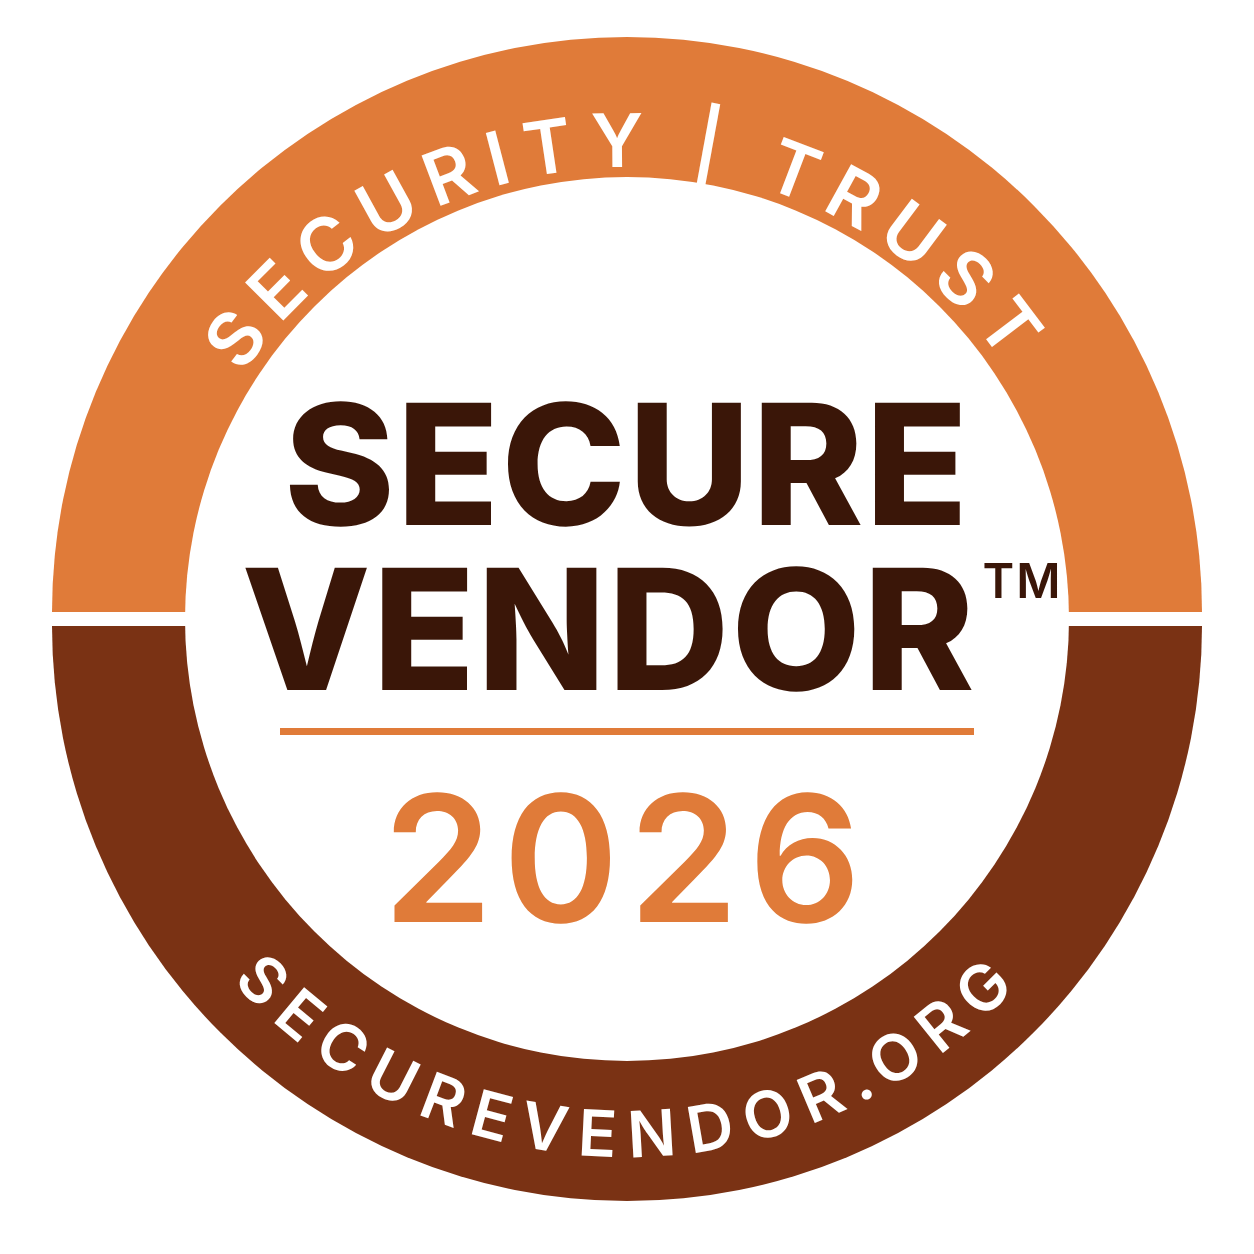
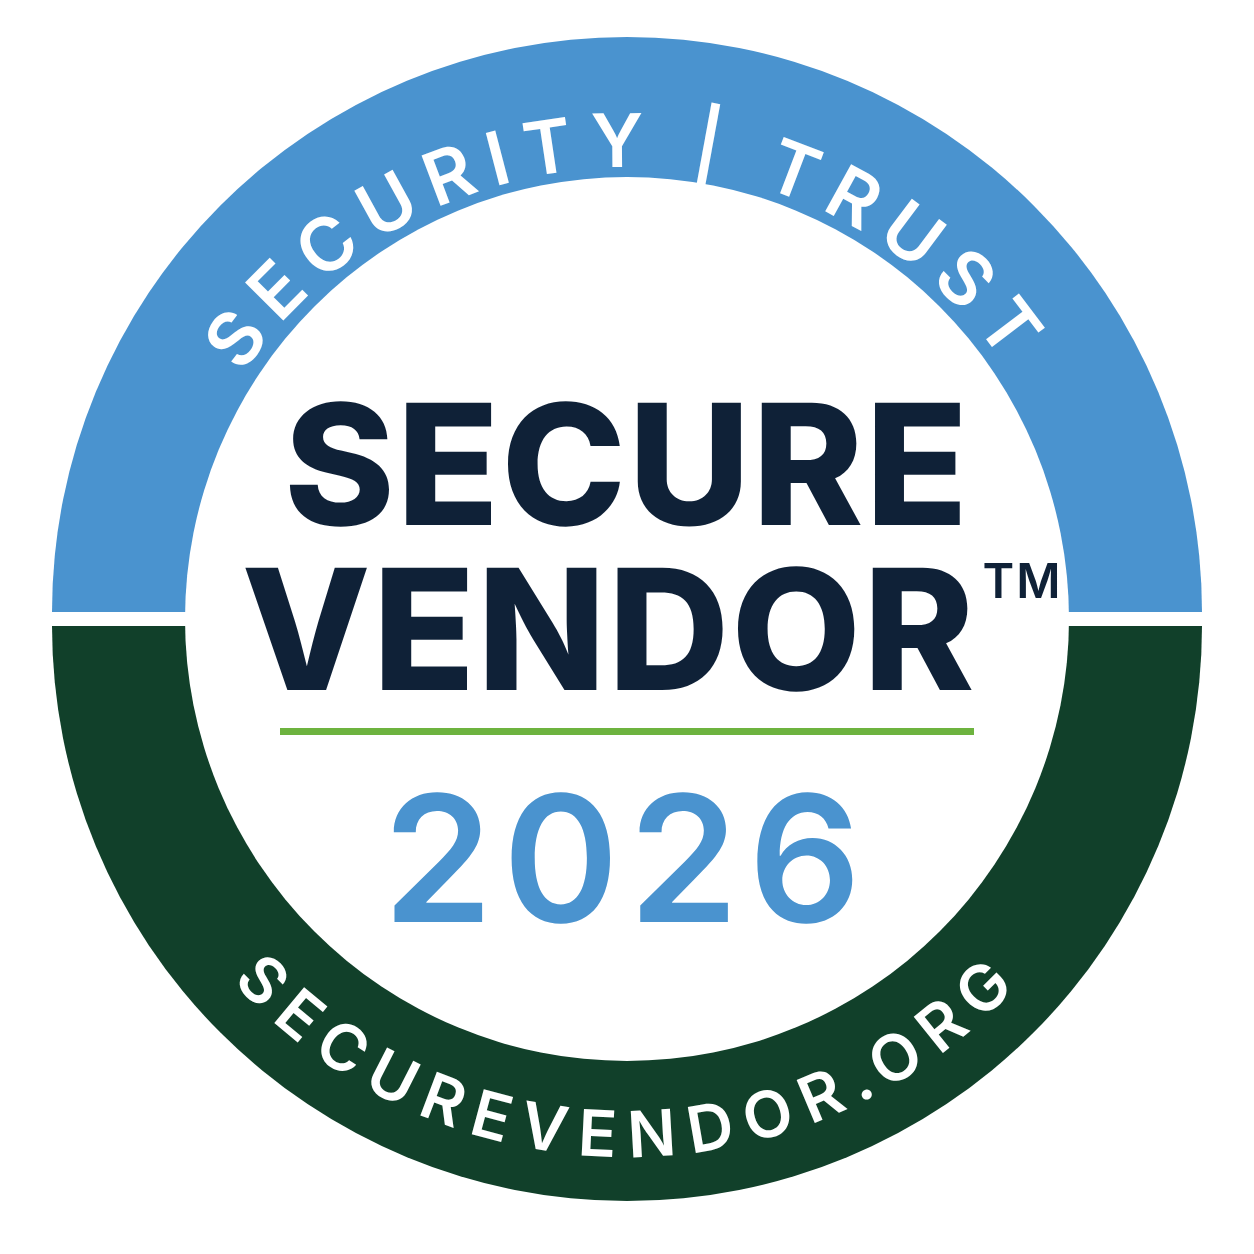
Blue and green theme combining Secure Funder and Secure Broker colors
Claude-Session: https://claude.ai/code/session_01G6gvxkUtkH3PQ2kPFbRBNR

diff --git a/site.css b/site.css
@@ -1,13 +1,13 @@
 /* Secure Vendor — shared site styles.
-   Same layout system as securefunder.org / securebroker.org, with a burnt orange palette. */
+   Same layout system as securefunder.org / securebroker.org, with Secure Funder's blue and Secure Broker's green. */
 :root {
-  /* Burnt orange, with the family's lime banner */
-  --orange: #B9471A; --orange-deep: #973913; --orange-dark: #7A3214; --orange-darkest: #4E200C; --lime: #DDF734;
+  /* Funder blue + Broker green, with the family's lime banner */
+  --blue: #1D4E89; --blue-deep: #163C6A; --navy: #0F2137; --green: #11352A; --lime: #DDF734;
 
-  --ink: #1F1611; --text: #46382F; --muted: #7A6A5D; --rule: #EEDFD5; --band: #FBF5F0; --paper: #FFFFFF;
-  --link: #1A6DD9; --accent: var(--orange); --accent-deep: var(--orange-deep); --dark: var(--orange-dark);
+  --ink: #0E1B2E; --text: #3A4659; --muted: #6B7686; --rule: #D9DEE5; --band: #F4F6F9; --paper: #FFFFFF;
+  --link: #1A6DD9; --accent: var(--blue); --accent-deep: var(--blue-deep); --dark: var(--green);
   --highlight: var(--lime); --tag: #FFE45C;
-  --foot-text: #E3CDBF; --foot-head: #C2A592; --foot-link: #F7EAE1;
+  --foot-text: #A9B4C2; --foot-head: #8C98A8; --foot-link: #DCE3EB;
   --serif: 'Source Serif 4', Georgia, 'Times New Roman', serif;
   --sans: 'Public Sans', 'Helvetica Neue', Arial, sans-serif;
   --wrap: 1160px;
@@ -75,7 +75,7 @@ a.client-slot:hover img { filter: none; opacity: 1; }
 
 /* Sections */
 .section { padding: 88px 0; border-bottom: 1px solid var(--rule); }
-.section.dark { background: var(--dark); color: #F3E3D8; border-bottom: 0; }
+.section.dark { background: var(--green); color: #C9D2DE; border-bottom: 0; }
 .section.dark h2, .section.dark strong { color: #fff; }
 .section.band { background: var(--band); }
 .section > .wrap { display: grid; grid-template-columns: minmax(0, 4fr) minmax(0, 8fr); gap: 64px; }
@@ -111,7 +111,7 @@ a.client-slot:hover img { filter: none; opacity: 1; }
 /* Compare (not a checklist) */
 .contrast { display: grid; grid-template-columns: repeat(2, minmax(0, 1fr)); gap: 16px; }
 .contrast > div { border: 1px solid var(--rule); padding: 22px 22px 24px; }
-.contrast .is { border-color: var(--orange); border-width: 2px; background: var(--paper); }
+.contrast .is { border-color: var(--blue); border-width: 2px; background: var(--paper); }
 .contrast h3 { font-family: var(--sans); font-size: 12px; font-weight: 700; letter-spacing: .1em; text-transform: uppercase; color: var(--muted); margin: 0 0 12px; }
 .contrast .is h3 { color: var(--accent); }
 .contrast ul { list-style: none; margin: 0; padding: 0; }
@@ -133,12 +133,12 @@ a.client-slot:hover img { filter: none; opacity: 1; }
 .linkbtn:hover { text-decoration: underline; text-underline-offset: 3px; }
 
 /* Closing band */
-.closing { padding: 96px 0; background: var(--dark); color: #F3E3D8; }
+.closing { padding: 96px 0; background: var(--navy); color: #C9D2DE; }
 .closing .wrap { display: flex; align-items: flex-end; justify-content: space-between; gap: 40px; flex-wrap: wrap; }
 .closing h2 { color: #fff; font-size: clamp(32px, 4vw, 44px); line-height: 1.1; max-width: 16em; }
 .closing p { margin: 14px 0 0; font-size: 16px; }
 .closing .btn { background: #fff; border-color: #fff; color: var(--ink); }
-.closing .btn:hover { background: #F7EAE1; border-color: #F7EAE1; color: var(--ink); }
+.closing .btn:hover { background: #E6EAF0; border-color: #E6EAF0; color: var(--ink); }
 .closing .btn-quiet { background: transparent; color: #fff; border-color: #fff; }
 .closing .btn-quiet:hover { background: #fff; color: var(--ink); }
 .closing-actions { display: flex; gap: 12px; flex-wrap: wrap; }
@@ -195,7 +195,7 @@ a.client-slot:hover img { filter: none; opacity: 1; }
 .notice { font-size: 14px; color: var(--muted); margin: 16px 0 0; }
 
 /* Footer */
-.site-foot { padding: 56px 0 48px; font-size: 14px; color: var(--foot-text); background: var(--orange-darkest); }
+.site-foot { padding: 56px 0 48px; font-size: 14px; color: var(--foot-text); background: var(--green); }
 .site-foot .fob { --fob-rule: rgba(255,255,255,0.15); margin: 0 0 48px; }
 .site-foot .fob-title { margin: 0 0 6px; font-family: inherit; font-size: 17px; font-weight: 700; color: #fff; }
 .site-foot .fob-sub { margin: 0; max-width: none; font-size: 14px; color: var(--foot-text); }
@@ -218,7 +218,7 @@ a.client-slot:hover img { filter: none; opacity: 1; }
 .site-foot .foot-bottom { margin-top: 44px; padding-top: 20px; border-top: 1px solid rgba(255,255,255,.15); display: flex; justify-content: space-between; gap: 24px; flex-wrap: wrap; }
 
 /* Bio modal */
-.bio-overlay { position: fixed; inset: 0; z-index: 100; background: rgba(31,22,17,.5); display: none; align-items: center; justify-content: center; padding: 24px; }
+.bio-overlay { position: fixed; inset: 0; z-index: 100; background: rgba(14,27,46,.45); display: none; align-items: center; justify-content: center; padding: 24px; }
 .bio-overlay.active { display: flex; }
 .bio-box { position: relative; background: #fff; max-width: 620px; width: 100%; padding: 44px 40px 36px; border: 1px solid var(--rule); max-height: 90vh; overflow: auto; }
 .bio-box h3 { font-size: 24px; margin-bottom: 18px; }

diff --git a/program-guidelines/index.html b/program-guidelines/index.html
@@ -10,8 +10,8 @@
 <meta property="og:type" content="website">
 <meta property="og:url" content="https://securevendor.org/program-guidelines/">
 <meta property="og:image" content="https://securevendor.org/og-blank.png">
-<link rel="icon" type="image/png" sizes="32x32" href="../orange-rings.png">
-<link rel="apple-touch-icon" sizes="180x180" href="../orange-rings.png">
+<link rel="icon" type="image/png" sizes="32x32" href="../vendor-rings.png">
+<link rel="apple-touch-icon" sizes="180x180" href="../vendor-rings.png">
 <link rel="preconnect" href="https://fonts.googleapis.com">
 <link rel="preconnect" href="https://fonts.gstatic.com" crossorigin>
 <link href="https://fonts.googleapis.com/css2?family=Public+Sans:wght@400;500;600;700&family=Source+Serif+4:opsz,wght@8..60,400;8..60,500;8..60,600;8..60,700&display=swap" rel="stylesheet">
@@ -23,7 +23,7 @@
 
 <header class="nav">
   <div class="wrap">
-    <a class="nav-logo" href="../" aria-label="Secure Vendor home"><img src="../orange-rings.png" alt=""><span>Secure Vendor<sup>&trade;</sup></span></a>
+    <a class="nav-logo" href="../" aria-label="Secure Vendor home"><img src="../vendor-rings.png" alt=""><span>Secure Vendor<sup>&trade;</sup></span></a>
     <nav class="nav-links" aria-label="Primary">
       <a href="https://securebroker.org" target="_blank" rel="noopener noreferrer">For Brokers</a>
       <a href="https://securefunder.org" target="_blank" rel="noopener noreferrer">For Funders</a>

diff --git a/directory/index.html b/directory/index.html
@@ -10,8 +10,8 @@
 <meta property="og:type" content="website">
 <meta property="og:url" content="https://securevendor.org/directory/">
 <meta property="og:image" content="https://securevendor.org/og-blank.png">
-<link rel="icon" type="image/png" sizes="32x32" href="../orange-rings.png">
-<link rel="apple-touch-icon" sizes="180x180" href="../orange-rings.png">
+<link rel="icon" type="image/png" sizes="32x32" href="../vendor-rings.png">
+<link rel="apple-touch-icon" sizes="180x180" href="../vendor-rings.png">
 <link rel="preconnect" href="https://fonts.googleapis.com">
 <link rel="preconnect" href="https://fonts.gstatic.com" crossorigin>
 <link href="https://fonts.googleapis.com/css2?family=Public+Sans:wght@400;500;600;700&family=Source+Serif+4:opsz,wght@8..60,400;8..60,500;8..60,600;8..60,700&display=swap" rel="stylesheet">
@@ -23,7 +23,7 @@
 
 <header class="nav">
   <div class="wrap">
-    <a class="nav-logo" href="../" aria-label="Secure Vendor home"><img src="../orange-rings.png" alt=""><span>Secure Vendor<sup>&trade;</sup></span></a>
+    <a class="nav-logo" href="../" aria-label="Secure Vendor home"><img src="../vendor-rings.png" alt=""><span>Secure Vendor<sup>&trade;</sup></span></a>
     <nav class="nav-links" aria-label="Primary">
       <a href="https://securebroker.org" target="_blank" rel="noopener noreferrer">For Brokers</a>
       <a href="https://securefunder.org" target="_blank" rel="noopener noreferrer">For Funders</a>

diff --git a/contact/index.html b/contact/index.html
@@ -10,8 +10,8 @@
 <meta property="og:type" content="website">
 <meta property="og:url" content="https://securevendor.org/contact/">
 <meta property="og:image" content="https://securevendor.org/og-blank.png">
-<link rel="icon" type="image/png" sizes="32x32" href="../orange-rings.png">
-<link rel="apple-touch-icon" sizes="180x180" href="../orange-rings.png">
+<link rel="icon" type="image/png" sizes="32x32" href="../vendor-rings.png">
+<link rel="apple-touch-icon" sizes="180x180" href="../vendor-rings.png">
 <link rel="preconnect" href="https://fonts.googleapis.com">
 <link rel="preconnect" href="https://fonts.gstatic.com" crossorigin>
 <link href="https://fonts.googleapis.com/css2?family=Public+Sans:wght@400;500;600;700&family=Source+Serif+4:opsz,wght@8..60,400;8..60,500;8..60,600;8..60,700&display=swap" rel="stylesheet">
@@ -23,7 +23,7 @@
 
 <header class="nav">
   <div class="wrap">
-    <a class="nav-logo" href="../" aria-label="Secure Vendor home"><img src="../orange-rings.png" alt=""><span>Secure Vendor<sup>&trade;</sup></span></a>
+    <a class="nav-logo" href="../" aria-label="Secure Vendor home"><img src="../vendor-rings.png" alt=""><span>Secure Vendor<sup>&trade;</sup></span></a>
     <nav class="nav-links" aria-label="Primary">
       <a href="https://securebroker.org" target="_blank" rel="noopener noreferrer">For Brokers</a>
       <a href="https://securefunder.org" target="_blank" rel="noopener noreferrer">For Funders</a>

diff --git a/join/index.html b/join/index.html
@@ -10,8 +10,8 @@
 <meta property="og:type" content="website">
 <meta property="og:url" content="https://securevendor.org/join/">
 <meta property="og:image" content="https://securevendor.org/og-blank.png">
-<link rel="icon" type="image/png" sizes="32x32" href="../orange-rings.png">
-<link rel="apple-touch-icon" sizes="180x180" href="../orange-rings.png">
+<link rel="icon" type="image/png" sizes="32x32" href="../vendor-rings.png">
+<link rel="apple-touch-icon" sizes="180x180" href="../vendor-rings.png">
 <link rel="preconnect" href="https://fonts.googleapis.com">
 <link rel="preconnect" href="https://fonts.gstatic.com" crossorigin>
 <link href="https://fonts.googleapis.com/css2?family=Public+Sans:wght@400;500;600;700&family=Source+Serif+4:opsz,wght@8..60,400;8..60,500;8..60,600;8..60,700&display=swap" rel="stylesheet">
@@ -23,7 +23,7 @@
 
 <header class="nav">
   <div class="wrap">
-    <a class="nav-logo" href="../" aria-label="Secure Vendor home"><img src="../orange-rings.png" alt=""><span>Secure Vendor<sup>&trade;</sup></span></a>
+    <a class="nav-logo" href="../" aria-label="Secure Vendor home"><img src="../vendor-rings.png" alt=""><span>Secure Vendor<sup>&trade;</sup></span></a>
     <nav class="nav-links" aria-label="Primary">
       <a href="https://securebroker.org" target="_blank" rel="noopener noreferrer">For Brokers</a>
       <a href="https://securefunder.org" target="_blank" rel="noopener noreferrer">For Funders</a>

diff --git a/index.html b/index.html
@@ -10,8 +10,8 @@
 <meta property="og:type" content="website">
 <meta property="og:url" content="https://securevendor.org/">
 <meta property="og:image" content="https://securevendor.org/og-blank.png">
-<link rel="icon" type="image/png" sizes="32x32" href="orange-rings.png">
-<link rel="apple-touch-icon" sizes="180x180" href="orange-rings.png">
+<link rel="icon" type="image/png" sizes="32x32" href="vendor-rings.png">
+<link rel="apple-touch-icon" sizes="180x180" href="vendor-rings.png">
 <link rel="preconnect" href="https://fonts.googleapis.com">
 <link rel="preconnect" href="https://fonts.gstatic.com" crossorigin>
 <link href="https://fonts.googleapis.com/css2?family=Public+Sans:wght@400;500;600;700&family=Source+Serif+4:opsz,wght@8..60,400;8..60,500;8..60,600;8..60,700&display=swap" rel="stylesheet">
@@ -23,7 +23,7 @@
 
 <header class="nav">
   <div class="wrap">
-    <a class="nav-logo" href="./" aria-label="Secure Vendor home"><img src="orange-rings.png" alt=""><span>Secure Vendor<sup>&trade;</sup></span></a>
+    <a class="nav-logo" href="./" aria-label="Secure Vendor home"><img src="vendor-rings.png" alt=""><span>Secure Vendor<sup>&trade;</sup></span></a>
     <nav class="nav-links" aria-label="Primary">
       <a href="https://securebroker.org" target="_blank" rel="noopener noreferrer">For Brokers</a>
       <a href="https://securefunder.org" target="_blank" rel="noopener noreferrer">For Funders</a>

diff --git a/README.md b/README.md
@@ -1,7 +1,7 @@
 # Secure Vendor™ site
 
-Static site for Secure Vendor™ (securevendor.org), the vendor certification in the Secure Broker / Secure Funder family. Same layout system as those sites, with a burnt orange palette and the family lime banner. (The repo keeps its original `secure-software-site` name.)
+Static site for Secure Vendor™ (securevendor.org), the vendor certification in the Secure Broker / Secure Funder family. Same layout system as those sites, with a Secure Funder's blue and Secure Broker's green and the family lime banner. (The repo keeps its original `secure-software-site` name.)
 
 - `site.css`: shared styles; colors are the tokens at the top.
 - Pages: `/`, `/how-it-works/`, `/join/`, `/contact/`, `/directory/`. Links are relative, so the site works on github.io and on a custom domain.
-- `src/badge.svg`, `src/rings.svg`: sources for the badge and logo. Re-render the PNGs with `node src/render.js '[["src/badge.svg","secure-vendor-badge-2026.png",1254],["src/badge.svg","family-of-brands/secure-vendor-badge.png",240],["src/rings.svg","orange-rings.png",500]]'`.
+- `src/badge.svg`, `src/rings.svg`: sources for the badge and logo. Re-render the PNGs with `node src/render.js '[["src/badge.svg","secure-vendor-badge-2026.png",1254],["src/badge.svg","family-of-brands/secure-vendor-badge.png",240],["src/rings.svg","vendor-rings.png",500]]'`.
